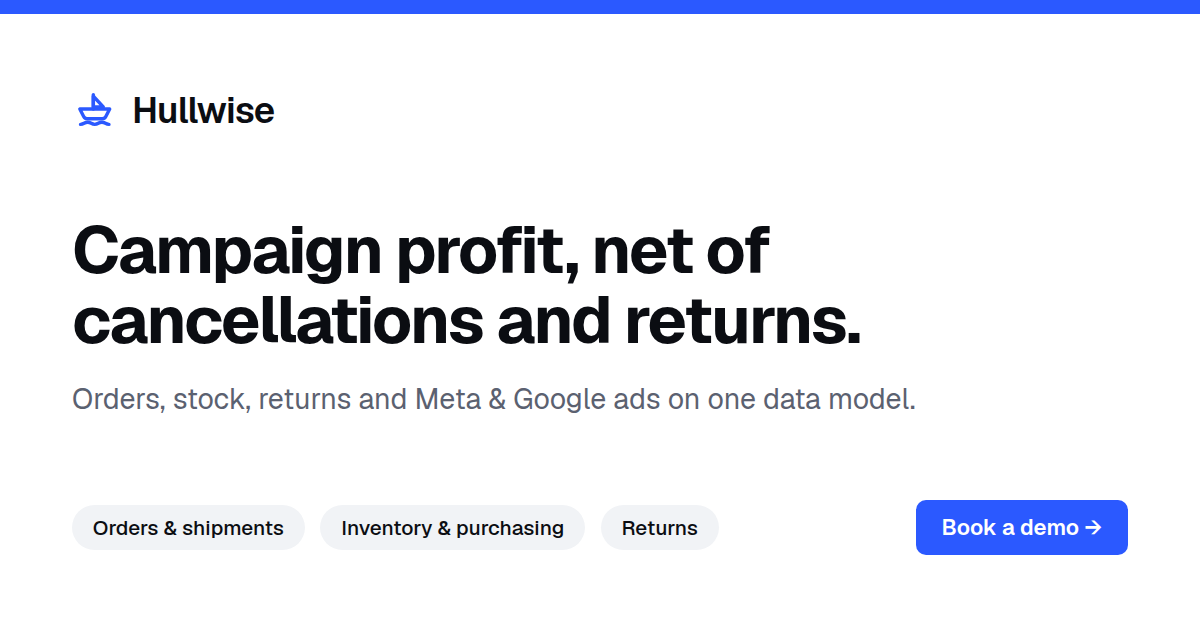
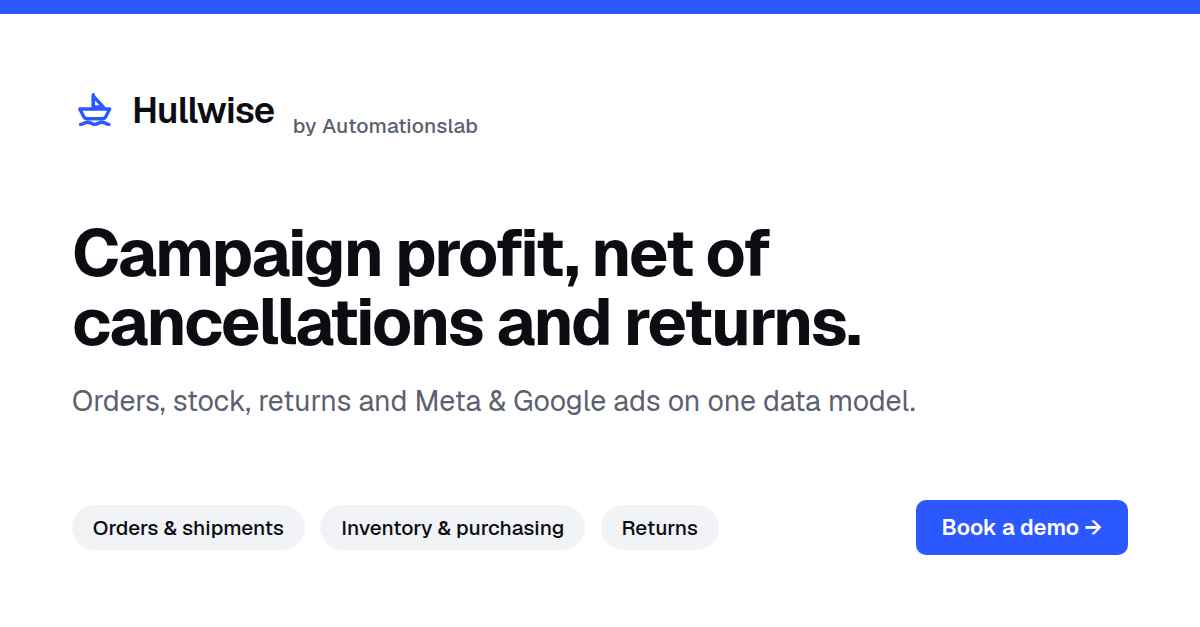
docs: LinkedIn kit signed by Automationslab
Claude-Session: https://claude.ai/code/session_016Vxme1CsTTzkWifqSzkRJX

diff --git a/docs/brand/linkedin/README.md b/docs/brand/linkedin/README.md
@@ -18,16 +18,20 @@ Assets rendered by `render.mjs` (Playwright + Geist, brand blue `#2b59ff`, the m
 
 ---
 
+## Personal profile
+
+Your headline and current experience stay **Automationslab**; the banner (`profile-banner-en.png`) promotes Hullwise with the "by Automationslab" line. Add Hullwise under Featured (the landing link) rather than as a separate job.
+
 ## Company page fields
 
 **Name:** Hullwise
 **Public URL:** linkedin.com/company/hullwise *(check it is free)*
 **Website:** the production URL of the landing page (`NEXT_PUBLIC_SITE_URL`)
 **Industry:** Software Development
-**Company size:** 2–10 employees
-**Type:** Privately held *(or "Self-employed" until a company exists)*
+**Type:** Showcase page of the Automationslab company page (Hullwise is an Automationslab product). Create it from the Automationslab page: *Admin tools → Create a Showcase Page*. Employees cannot list a showcase page as their employer, so your experience stays "Automationslab".
 **Location:** the city you actually operate from. Do not list an office that does not exist.
 **Founded:** 2026
+**Parent:** Automationslab
 **Specialties (max 20):** E-commerce, Shopify, Order management, Inventory management, Campaign profitability, Meta Ads, Google Ads, P&L, Returns management, CRM, SaaS
 
 **Positioning (internal, not for publishing as is):**
@@ -51,6 +55,8 @@ For mid-sized Shopify brands that advertise on Meta and Google and keep their nu
 > Works with any payment method. Add-on modules, such as cash-on-delivery management, are switched on per account.
 >
 > Setup done by our team, no annual contract, unlimited users, interface in English, Italian and Spanish.
+>
+> Hullwise is built and run by Automationslab.
 
 ### Launch post — with `post-square-en.png`
 
@@ -58,9 +64,9 @@ For mid-sized Shopify brands that advertise on Meta and Google and keep their nu
 >
 > Most dashboards add up orders placed. Weeks later the cancellations and returns come in, and the margin you saw is gone.
 >
-> I built Hullwise from a platform I've been running for an e-commerce brand: orders, inventory, purchasing, returns and Meta and Google campaigns on one data model, with profit counted net of cancellations and returns and every campaign tied to the stock of the products it promotes.
+> At Automationslab we built Hullwise from a platform we've been running for an e-commerce brand: orders, inventory, purchasing, returns and Meta and Google campaigns on one data model, with profit counted net of cancellations and returns and every campaign tied to the stock of the products it promotes.
 >
-> I'm looking for the first Shopify stores to work with. If you run one and want to see the demo, message me or book through the link in the comments.
+> We're looking for the first Shopify stores to work with. If you run one and want to see the demo, message me or book through the link in the comments.
 >
 > #ecommerce #shopify #metaads #googleads
 
